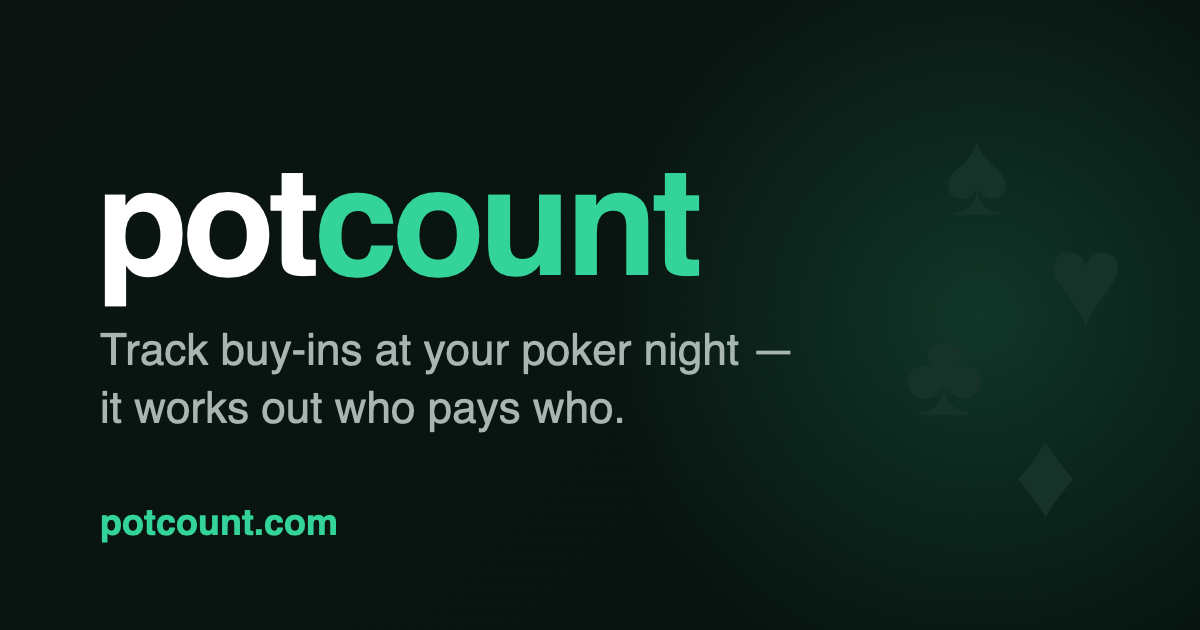
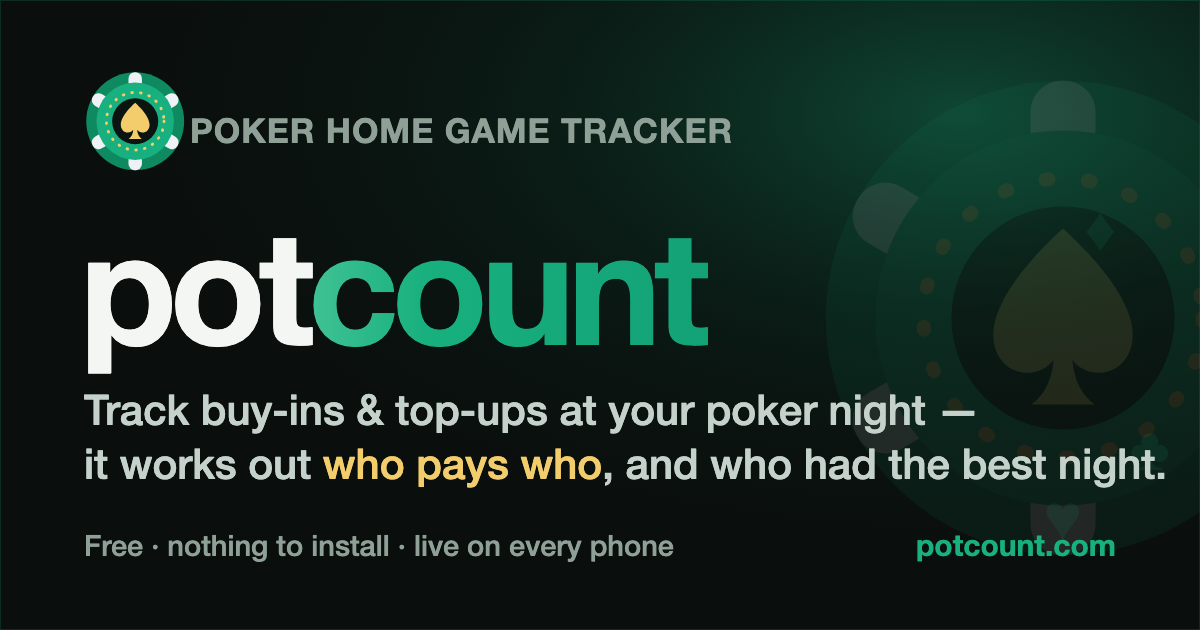
Landing: animated "How it works" explainer (new visitors)
Three illustrated cards (Open a game · Track the money · Settle up) that rise in
staggered on load, shown only when a visitor has no games. Joining is framed as
optional inside "Track the money" rather than a required step. Respects
prefers-reduced-motion. Includes a pointer to the Split tool.

Also includes the in-progress SEO work (structured data, og cache-bust,
robots.txt, sitemap.xml).

diff --git a/src/routes/+page.svelte b/src/routes/+page.svelte
@@ -186,7 +186,8 @@
 </script>
 
 <svelte:head>
-  <title>potcount — home game tracker</title>
+  <title>potcount — poker home game tracker & who-pays-who settlement</title>
+  <link rel="canonical" href="https://potcount.com/" />
 </svelte:head>
 
 <div class="wrap">
@@ -196,8 +197,11 @@
           style="font-family: var(--font-display); letter-spacing: -0.04em;">
         pot<span class="text-accent font-bold">count</span>
       </h1>
+      <p class="text-accent uppercase tracking-[0.18em] text-xs font-bold mb-3 text-center max-md:text-left w-full">
+        Poker home game tracker
+      </p>
       <p class="text-muted text-[1.05rem] max-w-[48ch] text-center max-md:text-left mb-5 w-full">
-        Track buy-ins and top-ups. At the end it works out who pays who — and who had the best night.
+        Track every buy-in and top-up at your poker night. At the end it works out who pays who — and who had the best night.
       </p>
 
       {#if games.length > 0}
@@ -224,6 +228,40 @@
         <button class="btn w-full py-[18px] text-[1.1rem]" onclick={showOpen}>Open a game</button>
         <button class="btn btn-secondary w-full py-[18px] text-[1.1rem]" onclick={showJoin}>Join a game</button>
       </div>
+
+      {#if games.length === 0}
+        <!-- How it works — new visitors only; supports the CTA, doesn't replace it -->
+        <div class="w-full max-w-[620px] mx-auto mt-10">
+          <h3 class="text-xs font-semibold uppercase tracking-widest text-muted text-center mb-4">How it works</h3>
+          <div class="grid grid-cols-3 gap-3 max-md:grid-cols-1 max-md:gap-2.5">
+            <div class="pc-step bg-surface-2 border border-border rounded-2xl p-4 text-center max-md:flex max-md:items-center max-md:text-left max-md:gap-3.5 max-md:p-3.5" style="--d:0ms">
+              <div class="w-11 h-11 rounded-full grid place-items-center text-xl bg-accent/15 mx-auto mb-2.5 max-md:m-0 max-md:shrink-0">🎴</div>
+              <div>
+                <div class="font-semibold text-sm">Open a game</div>
+                <div class="text-muted text-xs mt-1 leading-snug">Name it and get a 4-digit code.</div>
+              </div>
+            </div>
+            <div class="pc-step bg-surface-2 border border-border rounded-2xl p-4 text-center max-md:flex max-md:items-center max-md:text-left max-md:gap-3.5 max-md:p-3.5" style="--d:90ms">
+              <div class="w-11 h-11 rounded-full grid place-items-center text-xl bg-accent/15 mx-auto mb-2.5 max-md:m-0 max-md:shrink-0">💰</div>
+              <div>
+                <div class="font-semibold text-sm">Track the money</div>
+                <div class="text-muted text-xs mt-1 leading-snug">Add buy-ins &amp; top-ups as you play — or share the code so players add their own.</div>
+              </div>
+            </div>
+            <div class="pc-step bg-surface-2 border border-border rounded-2xl p-4 text-center max-md:flex max-md:items-center max-md:text-left max-md:gap-3.5 max-md:p-3.5" style="--d:180ms">
+              <div class="w-11 h-11 rounded-full grid place-items-center text-xl bg-accent/15 mx-auto mb-2.5 max-md:m-0 max-md:shrink-0">🧮</div>
+              <div>
+                <div class="font-semibold text-sm">Settle up</div>
+                <div class="text-muted text-xs mt-1 leading-snug">It works out who pays who in the fewest payments — and who had the best night.</div>
+              </div>
+            </div>
+          </div>
+          <p class="text-muted text-xs text-center mt-5 max-w-[48ch] mx-auto">
+            Just splitting one pot right now? The <a href="/pot">Split tool</a> does it instantly — no game needed.
+          </p>
+        </div>
+      {/if}
+
       <p class="text-muted text-xs text-center mt-5 max-w-[48ch] mx-auto">
         Games live on the server — anyone with the code can keep adding and settle later, even after the host closes the app.
       </p>
@@ -293,3 +331,19 @@
     </div>
   {/if}
 </div>
+
+<style>
+  /* "How it works" cards rise in, gently staggered (delay set per-card via --d). */
+  .pc-step {
+    opacity: 0;
+    animation: pc-rise 0.55s cubic-bezier(0.2, 0.7, 0.3, 1) forwards;
+    animation-delay: var(--d, 0ms);
+  }
+  @keyframes pc-rise {
+    from { opacity: 0; transform: translateY(14px); }
+    to   { opacity: 1; transform: translateY(0); }
+  }
+  @media (prefers-reduced-motion: reduce) {
+    .pc-step { animation: none; opacity: 1; }
+  }
+</style>

diff --git a/src/app.html b/src/app.html
@@ -20,14 +20,29 @@
     <meta property="og:title" content="potcount — poker home game tracker" />
     <meta property="og:description" content="Track buy-ins at your poker night — potcount works out who pays who, and who had the best night. Free, nothing to install." />
     <meta property="og:url" content="https://potcount.com" />
-    <meta property="og:image" content="https://potcount.com/og.png" />
+    <meta property="og:image" content="https://potcount.com/og.png?v=2" />
     <meta property="og:image:width" content="1200" />
     <meta property="og:image:height" content="630" />
     <meta property="og:image:alt" content="potcount — track buy-ins at your poker night" />
     <meta name="twitter:card" content="summary_large_image" />
     <meta name="twitter:title" content="potcount — poker home game tracker" />
     <meta name="twitter:description" content="Track buy-ins at your poker night — potcount works out who pays who." />
-    <meta name="twitter:image" content="https://potcount.com/og.png" />
+    <meta name="twitter:image" content="https://potcount.com/og.png?v=2" />
+
+    <!-- Structured data — lets Google understand potcount as a free web app -->
+    <script type="application/ld+json">
+    {
+      "@context": "https://schema.org",
+      "@type": "WebApplication",
+      "name": "potcount",
+      "url": "https://potcount.com",
+      "description": "Track buy-ins and top-ups at your poker home game. potcount works out who pays who with the fewest payments, splits messy all-in pots (double-board PLO, run-it-twice, hi-lo), and tracks your profit over time.",
+      "applicationCategory": "UtilitiesApplication",
+      "operatingSystem": "Any (web browser)",
+      "browserRequirements": "Requires JavaScript",
+      "offers": { "@type": "Offer", "price": "0", "priceCurrency": "USD" }
+    }
+    </script>
     %sveltekit.head%
   </head>
   <body data-sveltekit-preload-data="hover">